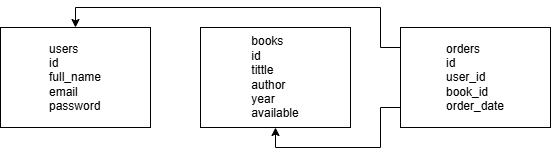
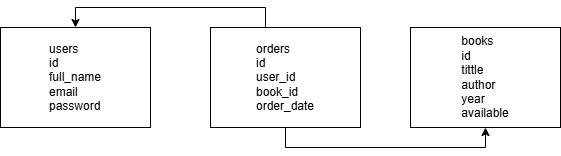
Completed day 4 database implementation

diff --git a/app.py b/app.py
@@ -1,1 +1,13 @@
-print ("Online Library")
+from flask import Flask
+
+app = Flask(__name__)
+
+@app.route("/")
+def home():
+    return """
+<h1>📚 Online Library Backend Working</h1>
+<p>Flask server is running successfully.</p>
+"""
+
+if __name__ == "__main__":
+    app.run(debug=True)
